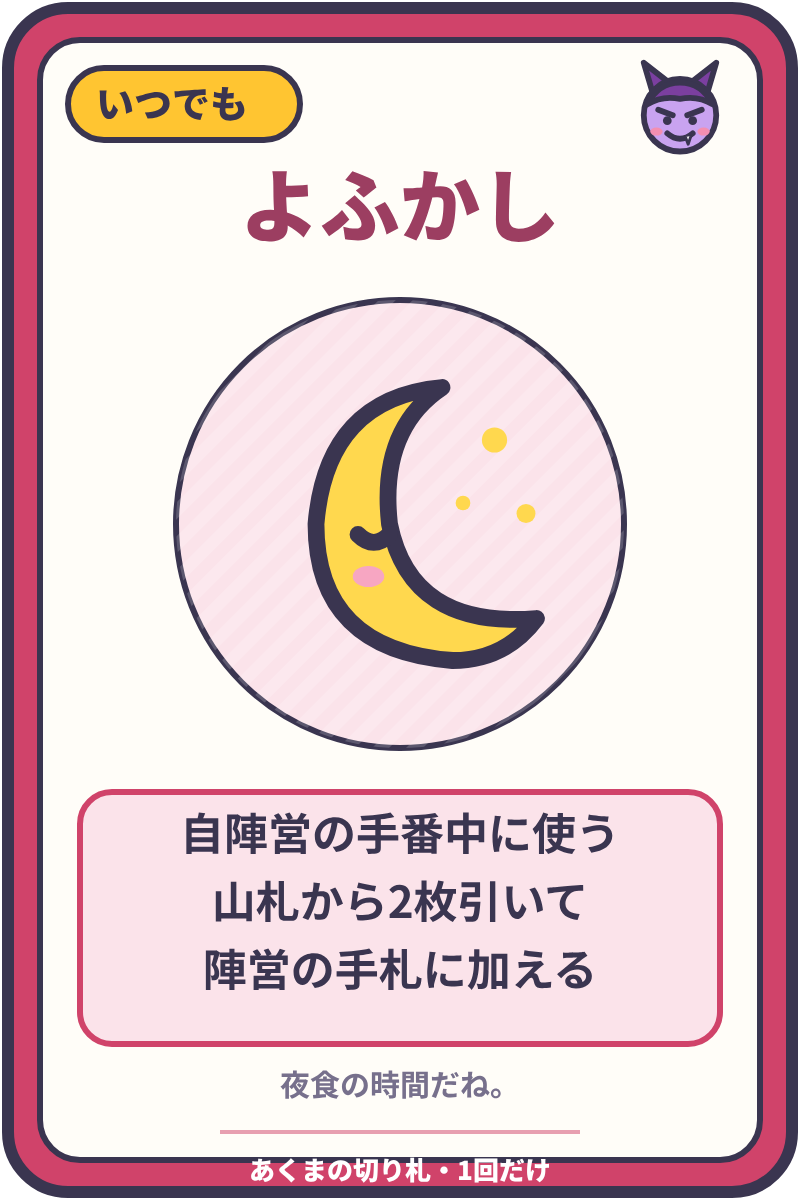
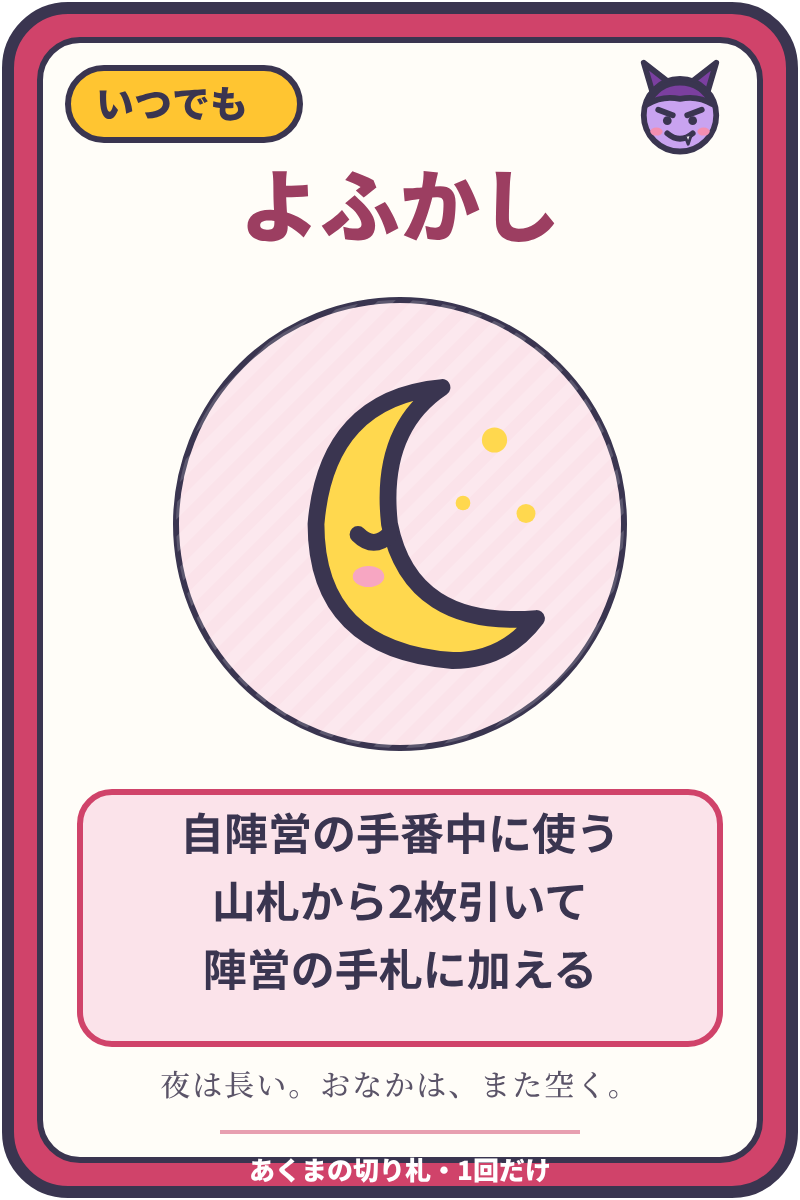
不穏なフレーバーテキストを追加（道中のひとこと・エピローグ・切り札の一言・ボード）
Claude-Session: https://claude.ai/code/session_01BgQtM1HGqWqvRbX9Ms6AAP

Changed region(s): [[0.1875, 0.8942, 0.75, 0.925]]

diff --git a/tools/build_assets.py b/tools/build_assets.py
@@ -18,6 +18,9 @@ ROOT = Path(__file__).resolve().parent.parent
 ASSETS = ROOT / "assets"
 
 FONT = "'Noto Sans CJK JP','Hiragino Sans','Yu Gothic','Meiryo',sans-serif"
+# フレーバーテキスト用（ポップな本文と対比させる明朝体）
+SERIF = "'Noto Serif CJK JP','Hiragino Mincho ProN','Yu Mincho',serif"
+FLAVOR = "#5B5468"
 
 # ---- パレット（てんし＝青、あくま＝ローズ で全素材を統一） ----
 INK_SOFT = "#77708C"
@@ -45,6 +48,11 @@ TYPES = {
 def t(x, y, s, size, fill=INK, weight="normal", anchor="middle", extra=""):
     return (f'<text x="{x:.1f}" y="{y:.1f}" font-size="{size}" font-weight="{weight}" '
             f'fill="{fill}" text-anchor="{anchor}" {extra}>{escape(s)}</text>')
+
+
+def ft(x, y, s, size, fill=FLAVOR, anchor="middle", weight="500"):
+    """フレーバーテキスト（明朝体）"""
+    return t(x, y, s, size, fill, weight, anchor, f'font-family="{SERIF}" letter-spacing="1"')
 
 
 def outlined(x, y, s, size, fill, stroke=INK, sw=8, anchor="middle", weight="900"):
@@ -402,13 +410,26 @@ def scenery_svg():
     return "\n".join(out)
 
 
+def flavor_svg():
+    """道のまんなかの空き地に置く、ひとことのフレーバー"""
+    out = []
+    # わかれ道①の内側（5A〜7A と 5B〜7B のあいだ）
+    out.append(ft(cx(5) - 6, cy(1) - 8, "――あのひとは今日も、", 15))
+    out.append(ft(cx(5) + 10, cy(1) + 18, "ひとりで帰ってくる。", 15))
+    # わかれ道②の内側（13A〜11A と 13B〜11B のあいだ）
+    out.append(ft(cx(6) - 2, cy(4) - 6, "おなかが空いたら、", 15))
+    out.append(ft(cx(6) + 14, cy(4) + 20, "おうちへ帰りましょう。", 15))
+    return "\n".join(out)
+
+
 def board():
     parts = [f'<svg xmlns="http://www.w3.org/2000/svg" width="{W}" height="{H}" viewBox="0 0 {W} {H}" font-family="{FONT}">',
              DEFS,
              f'<rect width="{W}" height="{H}" fill="url(#sky)"/>',
              f'<rect width="{W}" height="{H}" fill="url(#dots)"/>',
              scenery_svg(),
-             road_svg()]
+             road_svg(),
+             flavor_svg()]
     for sq in SQUARES:
         parts.append(tile_svg(sq))
     parts += [title_svg(), gimmick_svg(), flow_svg(), gauge_svg(), card_area_svg(), "</svg>"]
@@ -447,7 +468,9 @@ def quick_reference():
          outlined(62, 94, "おかえりロード 早見表", 48, INK, INK, 6, "start"),
          outlined(60, 90, "おかえりロード 早見表", 48, "#FFFFFF", INK, 5, "start"),
          place(art.angel(), QW - 170, 66, 80),
-         place(art.devil(), QW - 90, 72, 70)]
+         place(art.devil(), QW - 90, 72, 70),
+         ft(QW - 222, 58, "肩の上で、てんしとあくまが言い争う。", 14, anchor="end"),
+         ft(QW - 222, 86, "あのひとの好物を、だれも知らない。", 14, anchor="end")]
 
     def box(y, h, title, color):
         p.append(f'<g filter="url(#soft)"><rect x="40" y="{y}" width="{QW - 80}" height="{h}" rx="24" fill="#FFFFFF"/></g>')
@@ -548,20 +571,20 @@ def quick_reference():
 TRUMPS = {
     "angel": [
         # id, 名前, アイコン, タイミング, 効果（行ごと）, ひとこと
-        ("radio", "ラジオたいそう", "dumbbell", "そえる", ["自陣営のカードの数字", "+3"], "いっちに、さんし！"),
-        ("water", "おみずをどうぞ", "bottle", "そえる", ["相手陣営のカードの数字", "−3"], "のどがかわいたら、まずお水。"),
-        ("omamori", "おまもり", "omamori", "そえる", ["この公開でゲージが", "あくま側へ動くなら", "その動きを0にする"], "わるい誘惑から守ってくれる。"),
-        ("map", "ちずアプリ", "phone_map", "そえる", ["わかれ道で、勝ち負けに", "関係なくレーンを", "健康レーンにする"], "こっちの道のほうが景色がいいよ。"),
-        ("cheer", "おうえん団", "megaphone", "そえる", ["この公開でゲージが", "てんし側へ動くなら", "その動きを2倍にする"], "フレー！フレー！"),
-        ("early", "はやおき", "alarm", "いつでも", ["自陣営の手番中に使う", "山札から2枚引いて", "陣営の手札に加える"], "早起きは三文の徳。"),
+        ("radio", "ラジオたいそう", "dumbbell", "そえる", ["自陣営のカードの数字", "+3"], "体はいつも、動けるようにしておくこと。"),
+        ("water", "おみずをどうぞ", "bottle", "そえる", ["相手陣営のカードの数字", "−3"], "渇きは、空腹よりも先にやってくる。"),
+        ("omamori", "おまもり", "omamori", "そえる", ["この公開でゲージが", "あくま側へ動くなら", "その動きを0にする"], "守られているのは、どちらのほうだろう。"),
+        ("map", "ちずアプリ", "phone_map", "そえる", ["わかれ道で、勝ち負けに", "関係なくレーンを", "健康レーンにする"], "明るい道を選びなさい。人目のある道を。"),
+        ("cheer", "おうえん団", "megaphone", "そえる", ["この公開でゲージが", "てんし側へ動くなら", "その動きを2倍にする"], "声援がやむと、町はおそろしく静かだ。"),
+        ("early", "はやおき", "alarm", "いつでも", ["自陣営の手番中に使う", "山札から2枚引いて", "陣営の手札に加える"], "朝の道は、ひとりきりの人が多い。"),
     ],
     "devil": [
-        ("oomori", "大盛りサービス", "burger", "そえる", ["自陣営のカードの数字", "+3"], "大盛り無料ですよ〜。"),
-        ("sleepy", "ねむけさそい", "zzz", "そえる", ["相手陣営のカードの数字", "−3"], "ふわぁ…ちょっとだけ休もうよ。"),
-        ("gorone", "ごろ寝", "pillow", "そえる", ["この公開でゲージが", "てんし側へ動くなら", "その動きを0にする"], "運動は明日からでいいって。"),
-        ("smell", "いいにおい", "steam_smell", "そえる", ["わかれ道で、勝ち負けに", "関係なくレーンを", "誘惑レーンにする"], "あっちから、おいしそうな香り…"),
-        ("reward", "ごほうびデー", "cake", "そえる", ["この公開でゲージが", "あくま側へ動くなら", "その動きを2倍にする"], "今日はがんばったから特別！"),
-        ("late", "よふかし", "moon", "いつでも", ["自陣営の手番中に使う", "山札から2枚引いて", "陣営の手札に加える"], "夜食の時間だね。"),
+        ("oomori", "大盛りサービス", "burger", "そえる", ["自陣営のカードの数字", "+3"], "満腹のあいだは、だれも困らない。"),
+        ("sleepy", "ねむけさそい", "zzz", "そえる", ["相手陣営のカードの数字", "−3"], "眠っているあいだは、町が静かでいい。"),
+        ("gorone", "ごろ寝", "pillow", "そえる", ["この公開でゲージが", "てんし側へ動くなら", "その動きを0にする"], "動かないことも、ひとつのやさしさだ。"),
+        ("smell", "いいにおい", "steam_smell", "そえる", ["わかれ道で、勝ち負けに", "関係なくレーンを", "誘惑レーンにする"], "においの元は、いつも厨房の奥にある。"),
+        ("reward", "ごほうびデー", "cake", "そえる", ["この公開でゲージが", "あくま側へ動くなら", "その動きを2倍にする"], "今日の分は、もう食べたことにしよう。"),
+        ("late", "よふかし", "moon", "いつでも", ["自陣営の手番中に使う", "山札から2枚引いて", "陣営の手札に加える"], "夜は長い。おなかは、また空く。"),
     ],
 }
 
@@ -594,7 +617,7 @@ def trump_card(side, card):
     for i, line in enumerate(lines):
         big = line in ("+3", "−3")
         p.append(t(200, y0 + i * 34 + (8 if big else 0), line, 40 if big else 22, INK, "900" if big else "bold"))
-    p.append(t(200, 548, flavor, 15, INK_SOFT, "bold"))
+    p.append(ft(200, 548, flavor, 15 if len(flavor) <= 18 else 14))
     p.append(f'<path d="M110 566 L290 566" stroke="{color}" stroke-width="2" opacity="0.5"/>')
     p.append(t(200, 590, f"{team}・1回だけ", 13, "#FFFFFF", "900"))
     p.append("</svg>")

diff --git a/README.md b/README.md
@@ -1,8 +1,12 @@
 # おかえりロード 〜天使とあくまのさんぽ道〜
 
+> *夕暮れの町を、あのひとは歩いて帰る。肩の上では、小さなてんしと小さなあくまが、今日もあのひとの体のことで言い争っている。*
+
 CCFOLIA（[ccfolia.com](https://ccfolia.com/)）だけで完結する、トランプ＋ダイスすごろく形式のチーム対戦ボードゲームです。カードは CCFOLIA 標準の **「トランプのデッキ」** を使うので、現物のトランプもディーラー（進行役）も不要です。
 
 NPCを「太らせたいあくま陣営」と「痩せて健康にしたいてんし陣営」に分かれて、分岐すごろくのルートと体調ゲージを奪い合います。カードはいつも **裏向きで置いて「せーの」で公開**。相手のマスにも「横やり」を入れられるので、どのマスでも読み合いが起こります。さらにボードには、お店ごとの「お気に入りスート（+3）」、合流マスの「大勝負（×2）」、同じ数字2枚の「ペア出し」、劣勢側の「がんばれゾーン（+2）」といったしかけが描かれていて、どのカードをどこまで温存するかが勝負の分かれ目になります。各陣営にはオリジナルの **切り札カード** が6枚ずつあり、「おまもり」「いいにおい」など1回だけの一発逆転を狙えます。
+
+盤面やカードはポップですが、ルールブックのあちこちには少し不穏な **フレーバーテキスト** がひそんでいます。マスに止まったときの「[道中のひとこと](RULES.md#道中のひとことフレーバー)」や、ゴール後の「[エピローグ](RULES.md#エピローグゴール後の読み上げ)」を読み上げると、あのひとの散歩の、もうひとつの顔が見えてくるかもしれません。
 
 ![切り札カード](assets/trump_cards_sheet.png)
 
@@ -51,7 +55,7 @@ okaeri-road/
     └── render_png.py           SVG→PNG書き出し（Playwright + Chromium）
 ```
 
-素材を修正するときは `tools/build_assets.py` を編集し、`python3 tools/build_assets.py && python3 tools/render_png.py` で SVG と PNG を作り直してください（日本語フォント Noto Sans CJK JP が必要です。イラストはすべてSVGで描いているので絵文字フォントは不要です）。
+素材を修正するときは `tools/build_assets.py` を編集し、`python3 tools/build_assets.py && python3 tools/render_png.py` で SVG と PNG を作り直してください（日本語フォント Noto Sans CJK JP と、フレーバーテキスト用の Noto Serif CJK JP が必要です。イラストはすべてSVGで描いているので絵文字フォントは不要です）。
 
 ## ライセンス
 

diff --git a/IMPROVEMENT_LOG.md b/IMPROVEMENT_LOG.md
@@ -51,3 +51,4 @@
 - 2026-10-07 01:09 JST: ボード（assets/board_route_gauge.svg/.png）のカード置き場「除外」枠の説明文「ジョーカー・使った切り札」が枠の幅（132px）からはみ出して両端が欠けていたため、tools/build_assets.py の slot() で説明文の複数行を扱えるようにし「ジョーカー／使った切り札」の2行に分けて PNG を再書き出し（あわせて早見表のサイズのコメントを実寸 1080×1880 に修正）（PR #47）
 - 2026-10-07 05:09 JST: 「わかれ道は止まらず通過するときもカード勝負をする」という重要ルールが、インスト用の RULES.md「3分でわかる遊び方」と早見表（「どちらでもマスと同じカード勝負」とだけ記載）に無く、初見で通過時の勝負を見落としやすかったため、両方に追記して早見表 PNG を再書き出し（あわせて build_assets.py の切り札欄のコメント「6. ハプニング」を「6. 切り札」に修正）（PR #48）
 - 2026-10-07 09:09 JST: RULES.md 付録「ディーラー方式」に、切り札（そえる／いつでも）の使い方、ハプニング「気分屋」で捨てるカードの伝え方、J「妨害」・♣ の半減の目印の代わりにディーラーが宣言・記録することを追記（v3 で追加した切り札や目印の運用がデッキ前提の書き方のみで、ディーラー方式での扱いが抜けていたため）（PR #49）
+- 2026-10-07 09:33 JST: ユーザー依頼で、ポップな盤面と対比する不穏なフレーバーテキスト（NPC「あのひと」が実は人を食べる側であることを最後に匂わせる）を追加。RULES.md に冒頭の貼り紙・コンセプトのプロローグ・「道中のひとこと」（マスごと）・ハプニング表のひとこと・ゴール後の「エピローグ」を、README に導入文を、ボード（わかれ道の内側2か所）・早見表（タイトル横）・切り札12枚の一言を明朝体の不穏な文に差し替えて PNG を再書き出し（PR #50）
